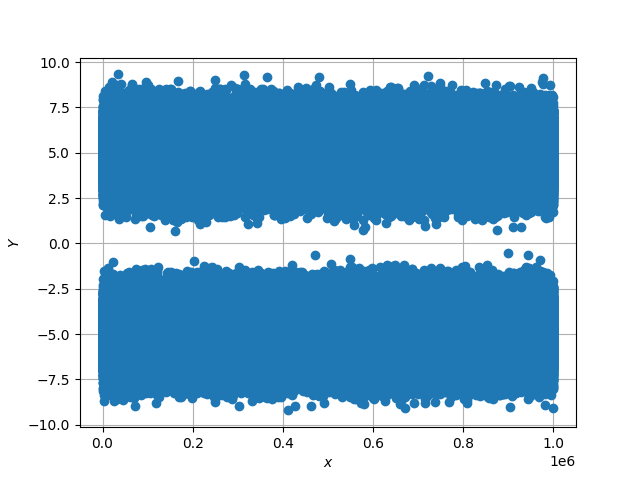
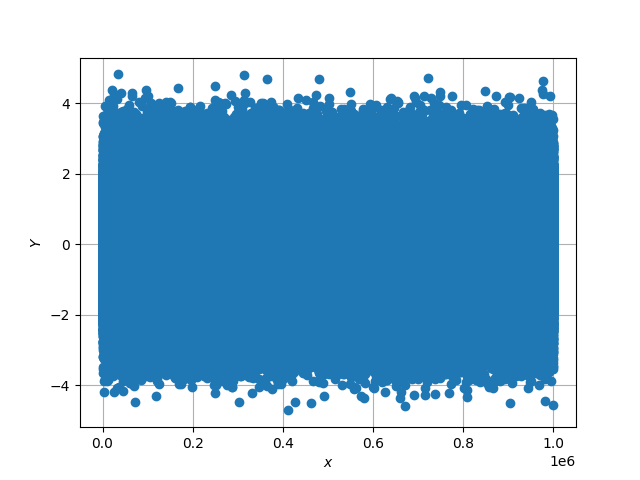
changed noise graph

diff --git a/RandomNumbers/codes/pdf_plot.py b/RandomNumbers/codes/pdf_plot.py
@@ -39,7 +39,7 @@ vec_gauss_pdf = scipy.vectorize(fp.gauss_pdf)
 vec_tri_pdf = np.vectorize(fp.tri_pdf, otypes=[np.float])
 
 
-# plt.plot(np.array(range(0,1000000)),randvar, 'o') #Plotting noise (Y)
+plt.plot(np.array(range(0,1000000)),randvar, 'o') #Plotting noise (Y)
 
 
 # plt.plot(x[0:(maxrange-1)].T,pdf, 'o')
